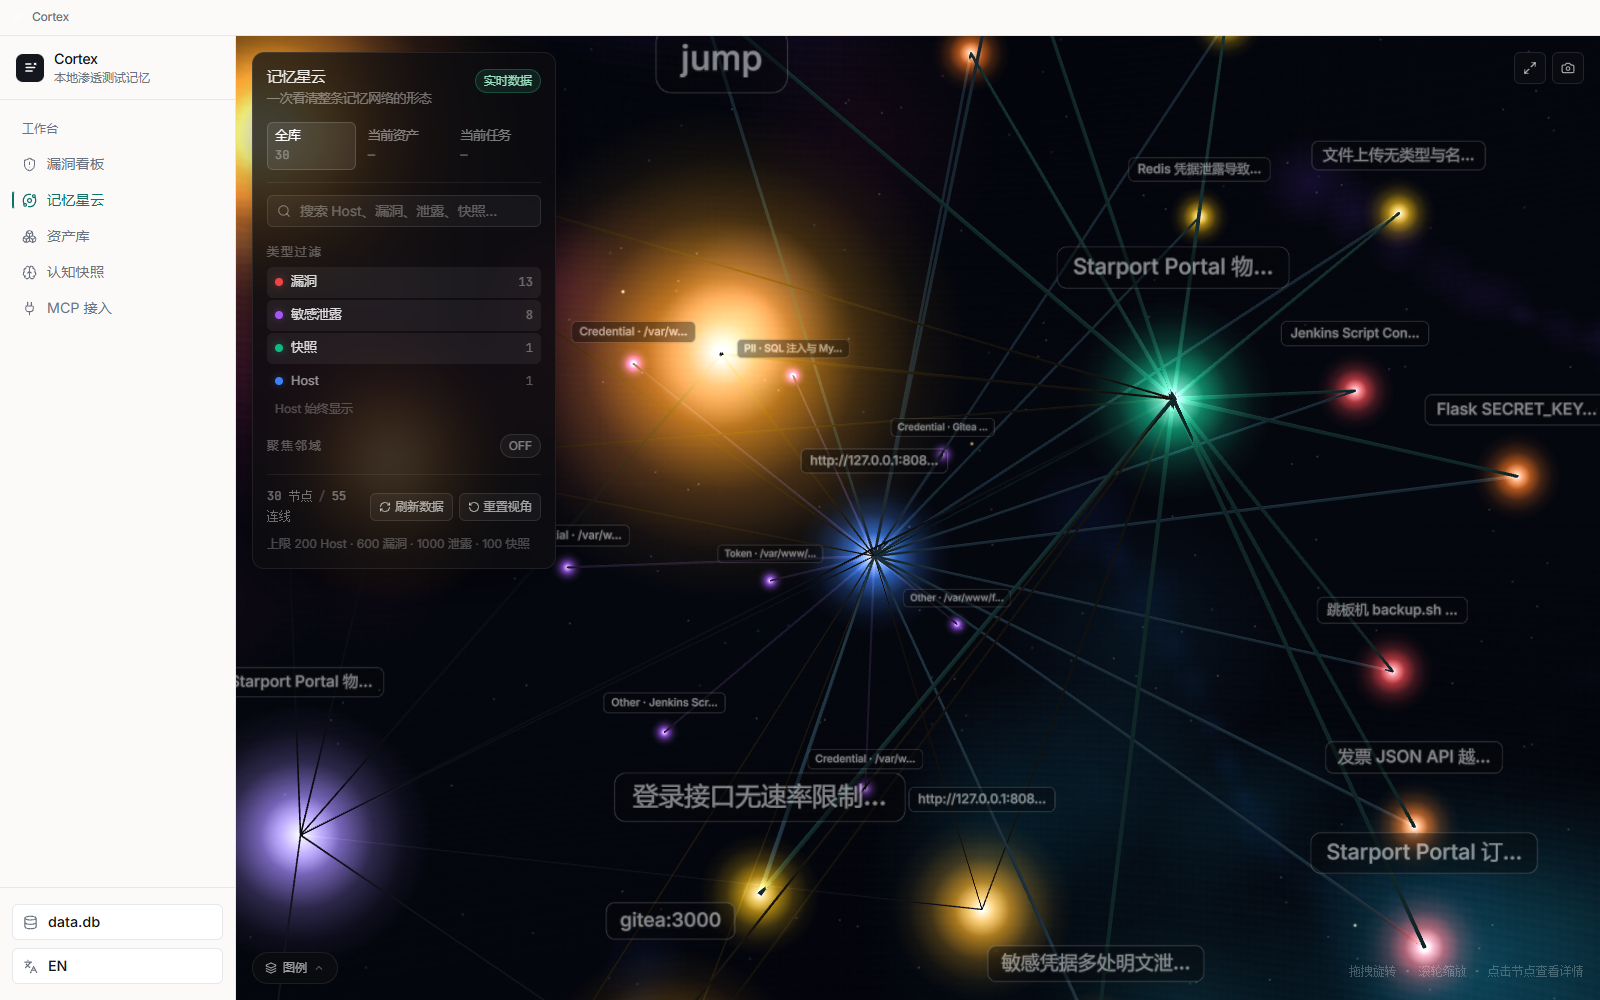
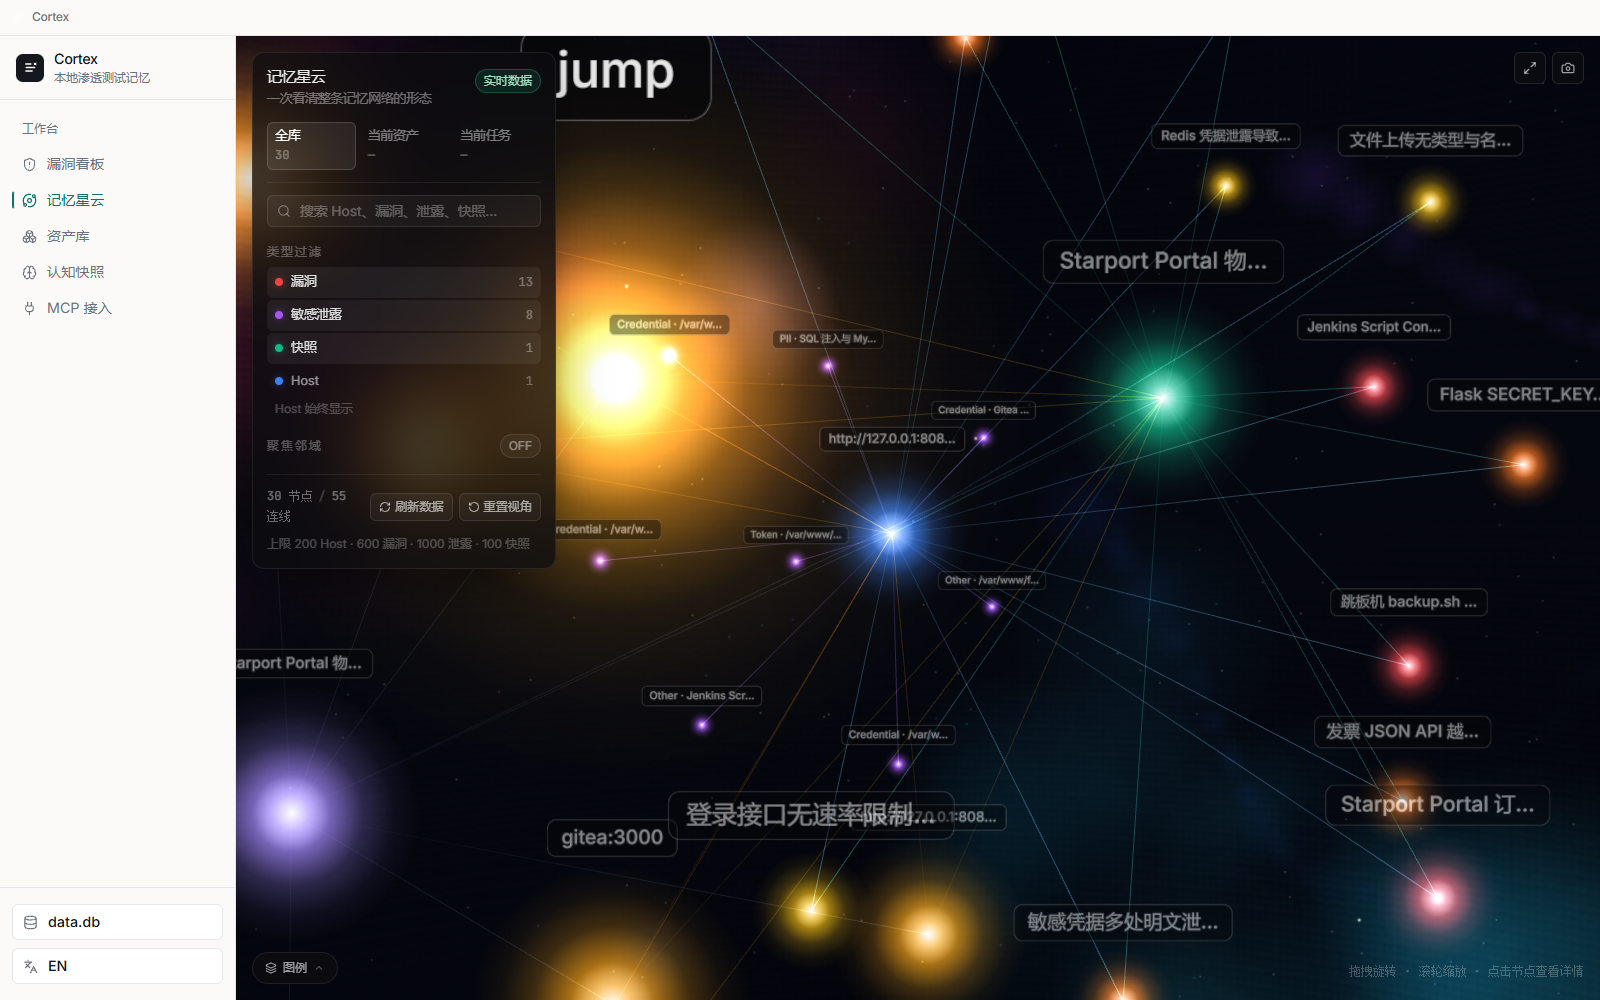
fix(nebula): fade link endpoints into node glow
- Replace default link cylinders with custom additive polylines whose vertex colors fade to black at both ends
- Trim each edge away from the node center so spokes dissolve into the glow instead of ending in a hard point
- Add deterministic per-link brightness variation for a less uniform web; keep straight edges and random link lengths
- Refresh README Memory Nebula screenshot with the new link treatment

diff --git a/src/renderer/src/components/nebula/NebulaGraph.tsx b/src/renderer/src/components/nebula/NebulaGraph.tsx
@@ -20,7 +20,6 @@ import {
   CAMERA_FOCUS_MS,
   CAMERA_RESET_MS,
   DEFAULT_CAMERA_DISTANCE,
-  DERIVED_LINK_WIDTH,
   DIM_OPACITY,
   FOCUS_DIM_OPACITY,
   HALO_SCALE,
@@ -36,7 +35,6 @@ import {
   LABEL_TEXTURE_HEIGHT,
   LABEL_TEXTURE_WIDTH,
   LINK_COLORS,
-  LINK_WIDTH,
   NEBULA_BACKGROUND,
   NEBULA_SKYBOX_HEIGHT,
   NEBULA_SKYBOX_WIDTH,
@@ -55,7 +53,6 @@ import {
   STARFIELD_FAR_OPACITY,
   STARFIELD_FAR_SIZE,
   STARFIELD_ROTATE_SPEED,
-  blendOnCanvas,
   linkOpacity,
   nodeColor,
   nodeRadius,
@@ -151,6 +148,90 @@ function linkDistance(link: GraphLink): number {
   return 32 + hashUnit(linkKey(link)) * 68
 }
 
+/* ------------------------------------------------------------- link art -- */
+
+/**
+ * Edges are a short polyline whose vertex colours fade to black at both ends.
+ * With additive blending the line dissolves into the node glow instead of
+ * ending in a hard point at the node centre, while the trimmed middle keeps
+ * the web readable. Deterministic per-link colours keep the look stable.
+ */
+const LINK_SEGMENT_COUNT = 20
+const LINK_FADE_FRACTION = 0.2
+const LINK_TRIM_RATIO = 0.045
+const LINK_TRIM_MIN = 1.5
+const LINK_TRIM_MAX = 7
+const LINK_COLOR_GAIN = 2.4
+
+function linkBaseColor(link: GraphLink): THREE.Color {
+  const opacity = linkOpacity(link.relation, link.derived === true)
+  // Slight per-link brightness variation keeps the web organic instead of a
+  // uniform wireframe; deterministic so the look is stable across reloads.
+  const variation = 0.82 + hashUnit(`${linkKey(link)}|brightness`) * 0.36
+  return new THREE.Color(LINK_COLORS[link.relation]).multiplyScalar(
+    Math.min(1, opacity * LINK_COLOR_GAIN * variation)
+  )
+}
+
+function createLinkObject(link: GraphLink): THREE.Object3D {
+  const geometry = new THREE.BufferGeometry()
+  geometry.setAttribute(
+    'position',
+    new THREE.BufferAttribute(new Float32Array(LINK_SEGMENT_COUNT * 3), 3)
+  )
+  const base = linkBaseColor(link)
+  const colors = new Float32Array(LINK_SEGMENT_COUNT * 3)
+  for (let index = 0; index < LINK_SEGMENT_COUNT; index += 1) {
+    const t = index / (LINK_SEGMENT_COUNT - 1)
+    const fadeIn = Math.min(1, t / LINK_FADE_FRACTION)
+    const fadeOut = Math.min(1, (1 - t) / LINK_FADE_FRACTION)
+    const fade = Math.min(fadeIn, fadeOut) ** 1.2
+    colors[index * 3] = base.r * fade
+    colors[index * 3 + 1] = base.g * fade
+    colors[index * 3 + 2] = base.b * fade
+  }
+  geometry.setAttribute('color', new THREE.BufferAttribute(colors, 3))
+  const line = new THREE.Line(
+    geometry,
+    new THREE.LineBasicMaterial({
+      vertexColors: true,
+      transparent: true,
+      opacity: 1,
+      blending: THREE.AdditiveBlending,
+      depthWrite: false
+    })
+  )
+  line.frustumCulled = false
+  line.renderOrder = 2
+  return line
+}
+
+function updateLinkPosition(
+  object: THREE.Object3D,
+  coords: { start: Coords; end: Coords }
+): void {
+  if (!(object instanceof THREE.Line)) return
+  const position = object.geometry.getAttribute('position') as THREE.BufferAttribute
+  const dx = coords.end.x - coords.start.x
+  const dy = coords.end.y - coords.start.y
+  const dz = coords.end.z - coords.start.z
+  const length = Math.sqrt(dx * dx + dy * dy + dz * dz)
+  const trim =
+    length > 0
+      ? Math.min(LINK_TRIM_MAX, Math.max(LINK_TRIM_MIN, length * LINK_TRIM_RATIO))
+      : 0
+  const t0 = length > 0 ? Math.min(0.45, trim / length) : 0
+  const t1 = 1 - t0
+  const array = position.array as Float32Array
+  for (let index = 0; index < LINK_SEGMENT_COUNT; index += 1) {
+    const t = t0 + (t1 - t0) * (index / (LINK_SEGMENT_COUNT - 1))
+    array[index * 3] = coords.start.x + dx * t
+    array[index * 3 + 1] = coords.start.y + dy * t
+    array[index * 3 + 2] = coords.start.z + dz * t
+  }
+  position.needsUpdate = true
+}
+
 /**
  * Minimal slice of the kapsule instance we drive. The library ships hand-written
  * types that do not cover every accessor consistently across versions, so this
@@ -182,9 +263,8 @@ interface ForceGraphProps {
   cooldownTicks: number
   d3AlphaDecay: number
   nodeThreeObject: (node: GraphNode) => THREE.Object3D
-  linkColor: (link: GraphLink) => string
-  linkWidth: (link: GraphLink) => number
-  linkOpacity: number
+  linkThreeObject: (link: GraphLink) => THREE.Object3D
+  linkPositionUpdate: (object: THREE.Object3D, coords: { start: Coords; end: Coords }, link: GraphLink) => void
   onNodeClick: (node: GraphNode, event: MouseEvent) => void
   onNodeHover: (node: GraphNode | null, previousNode: GraphNode | null) => void
   onBackgroundClick: () => void
@@ -997,17 +1077,6 @@ export const NebulaGraph = forwardRef<NebulaGraphHandle, NebulaGraphProps>(funct
     centerView({ x: center.x, y: center.y, z: center.z })
   }, [centerView])
 
-  const linkColor = useCallback(
-    (link: GraphLink): string =>
-      blendOnCanvas(LINK_COLORS[link.relation], linkOpacity(link.relation, link.derived === true)),
-    []
-  )
-
-  const linkWidth = useCallback(
-    (link: GraphLink): number => (link.derived === true ? DERIVED_LINK_WIDTH : LINK_WIDTH),
-    []
-  )
-
   const nodeValue = useCallback((node: GraphNode): number => node.val, [])
   const emptyNodeLabel = useCallback((): string => '', [])
 
@@ -1344,9 +1413,8 @@ export const NebulaGraph = forwardRef<NebulaGraphHandle, NebulaGraphProps>(funct
           cooldownTicks={140}
           d3AlphaDecay={0.022}
           nodeThreeObject={buildNodeObject}
-          linkColor={linkColor}
-          linkWidth={linkWidth}
-          linkOpacity={1}
+          linkThreeObject={createLinkObject}
+          linkPositionUpdate={updateLinkPosition}
           onNodeClick={handleNodeClick}
           onNodeHover={handleNodeHover}
           onBackgroundClick={handleBackgroundClick}
